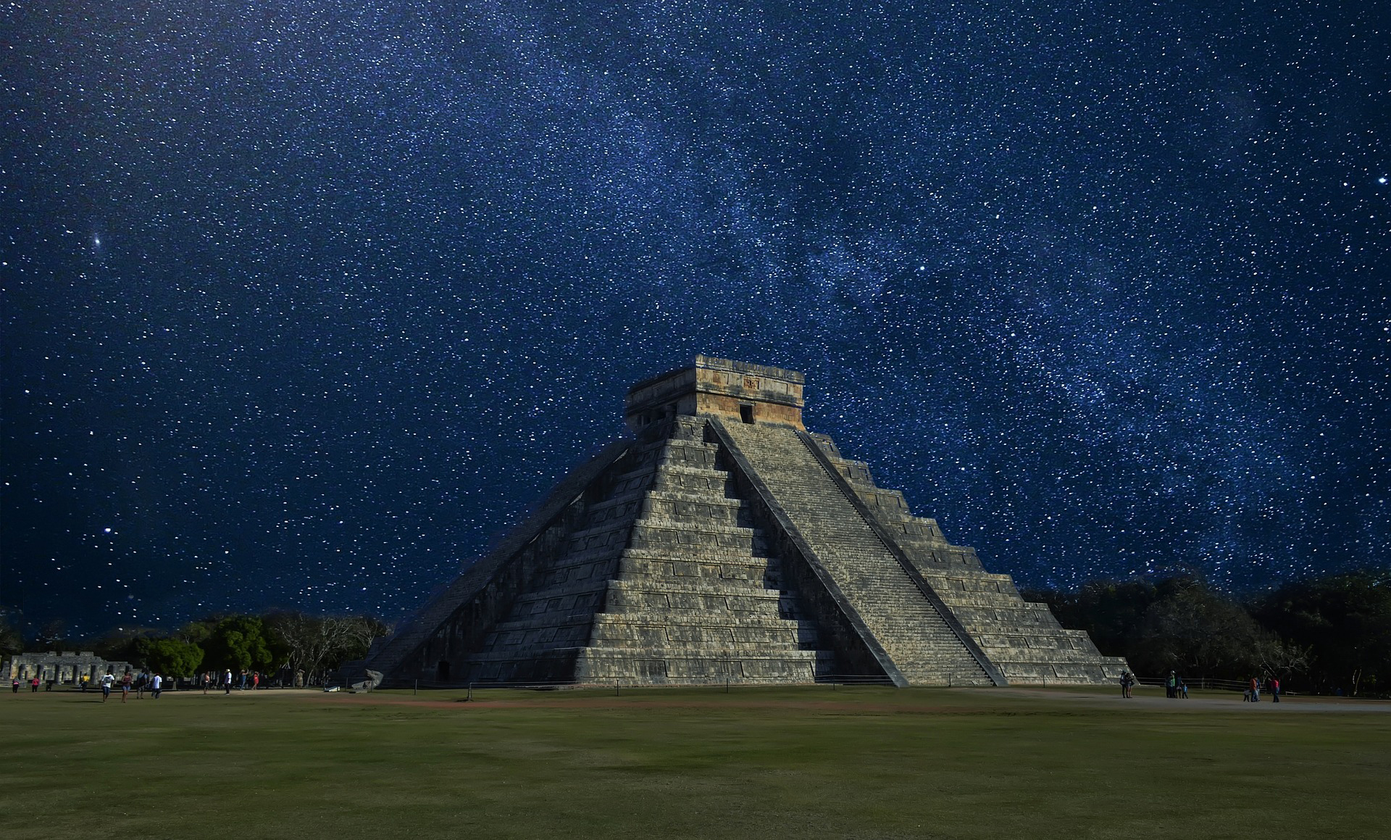
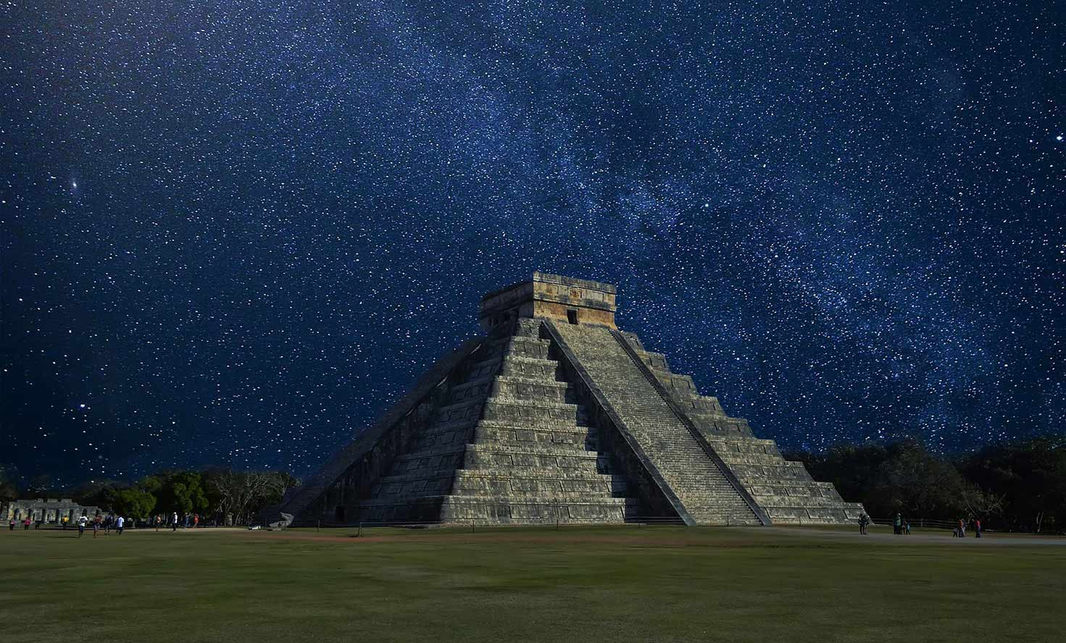
correccion campos

diff --git a/src/app/components/busqueda-pal-clav/busqueda-pal-clav.component.html b/src/app/components/busqueda-pal-clav/busqueda-pal-clav.component.html
@@ -46,8 +46,8 @@
         <div class="flex-containercont">
 
             <div class="articulo" *ngFor="let articulo of articulos">
-                <div *ngIf="articulo.origen === 'PDF'"><a class="titulo" href="https://www.redalyc.org/articulo.oa?id={{articulo.claveArt}}" target="_blank">{{  articulo.tituloArt | tituloArticulo }}</a></div>
-                <div *ngIf="articulo.origen === 'XML'"><a class="titulo" href="https://www.redalyc.org/jatsRepo/{{articulo.claveRevista}}/{{articulo.claveArt}}/index.html" target="_blank">{{  articulo.tituloArt | tituloArticulo }}</a></div>
+                <div *ngIf="articulo.origen === 'PDF'"><a class="titulo" href="https://www.redalyc.org/articulo.oa?id={{articulo.cveArticulo}}" target="_blank">{{  articulo.titulo }}</a></div>
+                <div *ngIf="articulo.origen === 'XML'"><a class="titulo" href="https://www.redalyc.org/jatsRepo/{{articulo.cveRevista}}/{{articulo.cveArticulo}}/index.html" target="_blank">{{  articulo.titulo }}</a></div>
                 <p>{{ articulo.autores | autoresArticulo}}</p>
                 <p>{{ articulo.nombreRevista }}, {{ articulo.anio }}, {{ articulo.volumen }} ({{ articulo.numero }}) </p>
                 <p>Fuente: {{ articulo.fuente}} </p>
@@ -63,13 +63,13 @@
                     <div *ngIf="articulo.origen === 'PDF'" class="flex">
                         <p class="texto-completo">Texto Completo: </p>
 
-                        <button class="button1"><a class="tipoFormato" href="https://redalyc.org/articulo.oa?id={{articulo.claveArt}}"  target="_blank">PDF</a></button>
+                        <button class="button1"><a class="tipoFormato" href="https://redalyc.org/articulo.oa?id={{articulo.cveArticulo}}"  target="_blank">PDF</a></button>
 
-                        <a class="facebook redes-pdf" href="http://www.facebook.com/sharer.php?u=https://www.redalyc.org/articulo.oa?id={{articulo.claveArt}}" target="_blank" OnClick="window.open(this.href,'targetWindow','toolbar=no,location=0,status=no,menubar=no,scrollbars=yes,resizable=yes,width=600,height=250'); return false;">
+                        <a class="facebook redes-pdf" href="http://www.facebook.com/sharer.php?u=https://www.redalyc.org/articulo.oa?id={{articulo.cveArticulo}}" target="_blank" OnClick="window.open(this.href,'targetWindow','toolbar=no,location=0,status=no,menubar=no,scrollbars=yes,resizable=yes,width=600,height=250'); return false;">
                             <img target="_blank" src="assets/img/tar-face.png" alt="">
                         </a>
 
-                        <a href="https://twitter.com/intent/tweet?original_referer=https://www.redalyc.org/articulo.oa?id={{articulo.claveArt}} &amp;text={{  articulo.tituloArt | tituloArticulo }} https://www.redalyc.org/articulo.oa?id={{articulo.claveArt}} vía @Redalyc" class="twitter"
+                        <a href="https://twitter.com/intent/tweet?original_referer=https://www.redalyc.org/articulo.oa?id={{articulo.cveArticulo}} &amp;text={{  articulo.titulo }} https://www.redalyc.org/articulo.oa?id={{articulo.cveArticulo}} vía @Redalyc" class="twitter"
                             target="_blank" OnClick="window.open(this.href,'targetWindow','toolbar=no,location=0,status=no,menubar=no,scrollbars=yes,resizable=yes,width=600,height=250'); return false;">
                             <img src="assets/img/tar-twit.png" alt="">
                         </a>
@@ -78,16 +78,16 @@
 
                     <div *ngIf="articulo.origen === 'XML'" class="flex">
                         <p class="texto-completo">Texto Completo: </p>
-                        <button class="button1"><a class="tipoFormato" href="https://redalyc.org/jatsRepo/{{articulo.claveRevista}}/{{articulo.claveArt}}/html/index.html" target="_blank">HTML-R</a> </button>
-                        <button class="button1"><a class="tipoFormato" href="https://redalyc.org/jatsRepo/{{articulo.claveRevista}}/{{articulo.claveArt}}/{{articulo.claveArt}}.epub" target="_blank">ePUB-R</a></button>
-                        <button class="button1"><a class="tipoFormato" href="https://redalyc.org/jatsRepo/{{articulo.claveRevista}}/{{articulo.claveArt}}/movil/index.html" target="_blank">MÓVIL-R</a></button>
-                        <button class="button1"><a class="tipoFormato" href="https://redalyc.org/articulo.oa?id={{articulo.claveArt}}"  target="_blank">PDF</a></button>
+                        <button class="button1"><a class="tipoFormato" href="https://redalyc.org/jatsRepo/{{articulo.cveRevista}}/{{articulo.cveArticulo}}/html/index.html" target="_blank">HTML-R</a> </button>
+                        <button class="button1"><a class="tipoFormato" href="https://redalyc.org/jatsRepo/{{articulo.cveRevista}}/{{articulo.cveArticulo}}/{{articulo.cveArticulo}}.epub" target="_blank">ePUB-R</a></button>
+                        <button class="button1"><a class="tipoFormato" href="https://redalyc.org/jatsRepo/{{articulo.cveRevista}}/{{articulo.cveArticulo}}/movil/index.html" target="_blank">MÓVIL-R</a></button>
+                        <button class="button1"><a class="tipoFormato" href="https://redalyc.org/articulo.oa?id={{articulo.cveArticulo}}"  target="_blank">PDF</a></button>
 
-                        <a class="facebook redes-xml" href="http://www.facebook.com/sharer.php?u=https://www.redalyc.org/articulo.oa?id={{articulo.claveArt}}" target="_blank" OnClick="window.open(this.href,'targetWindow','toolbar=no,location=0,status=no,menubar=no,scrollbars=yes,resizable=yes,width=600,height=250'); return false;">
+                        <a class="facebook redes-xml" href="http://www.facebook.com/sharer.php?u=https://www.redalyc.org/articulo.oa?id={{articulo.cveArticulo}}" target="_blank" OnClick="window.open(this.href,'targetWindow','toolbar=no,location=0,status=no,menubar=no,scrollbars=yes,resizable=yes,width=600,height=250'); return false;">
                             <img target="_blank" class="img-footer" src="assets/img/tar-face.png" alt="">
                         </a>
 
-                        <a href="https://twitter.com/intent/tweet?original_referer=https://www.redalyc.org/articulo.oa?id={{articulo.claveArt}} &amp;text={{  articulo.tituloArt | tituloArticulo }} https://www.redalyc.org/articulo.oa?id={{articulo.claveArt}} vía @Redalyc" class="twitter"
+                        <a href="https://twitter.com/intent/tweet?original_referer=https://www.redalyc.org/articulo.oa?id={{articulo.cveArticulo}} &amp;text={{  articulo.titulo }} https://www.redalyc.org/articulo.oa?id={{articulo.cveArticulo}} vía @Redalyc" class="twitter"
                             target="_blank" OnClick="window.open(this.href,'targetWindow','toolbar=no,location=0,status=no,menubar=no,scrollbars=yes,resizable=yes,width=600,height=250'); return false;">
                             <img target="_blank" class="img-footer" src="assets/img/tar-twit.png" alt="">
                         </a>

diff --git a/src/app/components/tarjeta-articulos/tarjeta-articulos.component.html b/src/app/components/tarjeta-articulos/tarjeta-articulos.component.html
@@ -1,8 +1,8 @@
 <div class="flex-containercont">
 
     <div class="articulo" *ngFor="let articulo of articulos">
-        <div *ngIf="articulo.origen === 'PDF'" class="titulo"><a class="titulo" href="https://www.redalyc.org/articulo.oa?id={{articulo.claveArt}}" target="_blank">{{  articulo.tituloArt | tituloArticulo }}</a></div>
-        <div *ngIf="articulo.origen === 'XML'" class="titulo"><a  class="titulo" href="https://www.redalyc.org/jatsRepo/{{articulo.claveRevista}}/{{articulo.claveArt}}/index.html" target="_blank">{{  articulo.tituloArt | tituloArticulo }}</a></div>
+        <div *ngIf="articulo.origen === 'PDF'" class="titulo"><a class="titulo" href="https://www.redalyc.org/articulo.oa?id={{articulo.cveArticulo}}" target="_blank">{{  articulo.titulo }}</a></div>
+        <div *ngIf="articulo.origen === 'XML'" class="titulo"><a  class="titulo" href="https://www.redalyc.org/jatsRepo/{{articulo.cveRevista}}/{{articulo.cveArticulo}}/index.html" target="_blank">{{  articulo.titulo }}</a></div>
         <p>{{ articulo.autores | autoresArticulo}}</p>
         <p>{{ articulo.nombreRevista }}, {{ articulo.anio }}, {{ articulo.volumen }} ({{ articulo.numero }}) </p>
         <p>Fuente: {{ articulo.fuente}} </p>
@@ -14,24 +14,24 @@
         <div *ngIf="articulo.dominio === 'https://www.redalyc.org'">
             <div *ngIf="articulo.origen === 'PDF'" class="flex">
                 <p class="texto-completo">Texto Completo: </p>
-                <button class="button1"><a class="tipoFormato"  href="https://redalyc.org/articulo.oa?id={{articulo.claveArt}}"  target="_blank">PDF</a></button>
+                <button class="button1"><a class="tipoFormato"  href="https://redalyc.org/articulo.oa?id={{articulo.cveArticulo}}"  target="_blank">PDF</a></button>
 
-                <a style="margin-left: 75%;" href="http://www.facebook.com/sharer.php?u=https://www.redalyc.org/articulo.oa?id={{articulo.claveArt}} | safeUrl" class="facebook" target="_blank" OnClick="window.open(this.href,'targetWindow','toolbar=no,location=0,status=no,menubar=no,scrollbars=yes,resizable=yes,width=600,height=250'); return false;">
+                <a style="margin-left: 75%;" href="http://www.facebook.com/sharer.php?u=https://www.redalyc.org/articulo.oa?id={{articulo.cveArticulo}} | safeUrl" class="facebook" target="_blank" OnClick="window.open(this.href,'targetWindow','toolbar=no,location=0,status=no,menubar=no,scrollbars=yes,resizable=yes,width=600,height=250'); return false;">
                     <img target="_blank" src="assets/img/tar-face.png" alt=""></a>
-                <a href="https://twitter.com/intent/tweet?original_referer=https://www.redalyc.org/articulo.oa?id={{articulo.claveArt}} &amp;text={{  articulo.tituloArt | tituloArticulo }} https://www.redalyc.org/articulo.oa?id={{articulo.claveArt}} vía @Redalyc" class="twitter"
+                <a href="https://twitter.com/intent/tweet?original_referer=https://www.redalyc.org/articulo.oa?id={{articulo.cveArticulo}} &amp;text={{  articulo.titulo }} https://www.redalyc.org/articulo.oa?id={{articulo.cveArticulo}} vía @Redalyc" class="twitter"
                     target="_blank" OnClick="window.open(this.href,'targetWindow','toolbar=no,location=0,status=no,menubar=no,scrollbars=yes,resizable=yes,width=600,height=250'); return false;"><img src="assets/img/tar-twit.png" alt=""></a>
 
             </div>
 
             <div *ngIf="articulo.origen === 'XML'" class="flex">
                 <p class="texto-completo">Texto Completo: </p>
-                <button class="button1"><a class="tipoFormato" href="https://redalyc.org/jatsRepo/{{articulo.claveRevista}}/{{articulo.claveArt}}/html/index.html" target="_blank">HTML-R</a> </button>
-                <button class="button1"><a class="tipoFormato" href="https://redalyc.org/jatsRepo/{{articulo.claveRevista}}/{{articulo.claveArt}}/{{articulo.claveArt}}.epub" target="_blank">ePUB-R</a></button>
-                <button class="button1"><a class="tipoFormato" href="https://redalyc.org/jatsRepo/{{articulo.claveRevista}}/{{articulo.claveArt}}/movil/index.html" target="_blank">MÓVIL-R</a></button>
-                <button class="button1"><a class="tipoFormato" href="https://redalyc.org/articulo.oa?id={{articulo.claveArt}}"  target="_blank">PDF</a></button>
-                <a style="margin-left: 41%;" href="http://www.facebook.com/sharer.php?u=https://www.redalyc.org/articulo.oa?id={{articulo.claveArt}}" class="facebook" target="_blank" OnClick="window.open(this.href,'targetWindow','toolbar=no,location=0,status=no,menubar=no,scrollbars=yes,resizable=yes,width=600,height=250'); return false;">
+                <button class="button1"><a class="tipoFormato" href="https://redalyc.org/jatsRepo/{{articulo.cveRevista}}/{{articulo.cveArticulo}}/html/index.html" target="_blank">HTML-R</a> </button>
+                <button class="button1"><a class="tipoFormato" href="https://redalyc.org/jatsRepo/{{articulo.cveRevista}}/{{articulo.cveArticulo}}/{{articulo.cveArticulo}}.epub" target="_blank">ePUB-R</a></button>
+                <button class="button1"><a class="tipoFormato" href="https://redalyc.org/jatsRepo/{{articulo.cveRevista}}/{{articulo.cveArticulo}}/movil/index.html" target="_blank">MÓVIL-R</a></button>
+                <button class="button1"><a class="tipoFormato" href="https://redalyc.org/articulo.oa?id={{articulo.cveArticulo}}"  target="_blank">PDF</a></button>
+                <a style="margin-left: 41%;" href="http://www.facebook.com/sharer.php?u=https://www.redalyc.org/articulo.oa?id={{articulo.cveArticulo}}" class="facebook" target="_blank" OnClick="window.open(this.href,'targetWindow','toolbar=no,location=0,status=no,menubar=no,scrollbars=yes,resizable=yes,width=600,height=250'); return false;">
                     <img target="_blank" src="assets/img/tar-face.png" alt=""></a>
-                <a href="https://twitter.com/intent/tweet?original_referer=https://www.redalyc.org/articulo.oa?id={{articulo.claveArt}} &amp;text={{  articulo.tituloArt | tituloArticulo }} https://www.redalyc.org/articulo.oa?id={{articulo.claveArt}} vía @Redalyc" class="twitter"
+                <a href="https://twitter.com/intent/tweet?original_referer=https://www.redalyc.org/articulo.oa?id={{articulo.cveArticulo}} &amp;text={{  articulo.titulo }} https://www.redalyc.org/articulo.oa?id={{articulo.cveArticulo}} vía @Redalyc" class="twitter"
                     target="_blank" OnClick="window.open(this.href,'targetWindow','toolbar=no,location=0,status=no,menubar=no,scrollbars=yes,resizable=yes,width=600,height=250'); return false;"><img src="assets/img/tar-twit.png" alt=""></a>
             </div>
         </div>

diff --git a/src/app/components/busqueda-pais/tarjeta-articulo/tarjeta-articulo.component.html b/src/app/components/busqueda-pais/tarjeta-articulo/tarjeta-articulo.component.html
@@ -1,8 +1,8 @@
 <div class="flex-containercont">
 
     <div class="articulo" *ngFor="let articulo of articulos">
-        <div *ngIf="articulo.origen === 'PDF'" class="titulo"><a href="https://www.redalyc.org/articulo.oa?id={{articulo.claveArt}}" target="_blank">{{  articulo.tituloArt | tituloArticulo }}</a></div>
-        <div *ngIf="articulo.origen === 'XML'" class="titulo"><a href="https://www.redalyc.org/jatsRepo/{{articulo.claveRevista}}/{{articulo.claveArt}}/index.html" target="_blank">{{  articulo.tituloArt | tituloArticulo }}</a></div>
+        <div *ngIf="articulo.origen === 'PDF'" class="titulo"><a href="https://www.redalyc.org/articulo.oa?id={{articulo.cveArticulo}}" target="_blank">{{  articulo.titulo }}</a></div>
+        <div *ngIf="articulo.origen === 'XML'" class="titulo"><a href="https://www.redalyc.org/jatsRepo/{{articulo.cveRevista}}/{{articulo.cveArticulo}}/index.html" target="_blank">{{  articulo.titulo }}</a></div>
         <p>{{ articulo.autores | autoresArticulo}}</p>
         <p>{{ articulo.nombreRevista }}, {{ articulo.anio }}, {{ articulo.volumen }} ({{ articulo.numero }}) </p>
         <p [routerLink]="['/busqueda-pal-clav',articulo.fuente]">Fuente: {{ articulo.fuente}} </p>
@@ -12,23 +12,23 @@
         <div *ngIf="articulo.dominio === 'https://www.redalyc.org'">
             <div *ngIf="articulo.origen === 'PDF'" class="flex">
                 <p class="texto-completo">Texto Completo:</p>
-                <button class="button1"><a class="tipoFormato" href="https://redalyc.org/articulo.oa?id={{articulo.claveArt}}"  target="_blank">PDF</a></button>
+                <button class="button1"><a class="tipoFormato" href="https://redalyc.org/articulo.oa?id={{articulo.cveArticulo}}"  target="_blank">PDF</a></button>
 
-                <a class="facebook redes-pdf" href="http://www.facebook.com/sharer.php?u=https://www.redalyc.org/articulo.oa?id={{articulo.claveArt}}" target="_blank" OnClick="window.open(this.href,'targetWindow','toolbar=no,location=0,status=no,menubar=no,scrollbars=yes,resizable=yes,width=600,height=250'); return false;">
+                <a class="facebook redes-pdf" href="http://www.facebook.com/sharer.php?u=https://www.redalyc.org/articulo.oa?id={{articulo.cveArticulo}}" target="_blank" OnClick="window.open(this.href,'targetWindow','toolbar=no,location=0,status=no,menubar=no,scrollbars=yes,resizable=yes,width=600,height=250'); return false;">
                     <img target="_blank" src="assets/img/tar-face.png" alt=""></a>
-                <a href="https://twitter.com/intent/tweet?original_referer=https://www.redalyc.org/articulo.oa?id={{articulo.claveArt}} &amp;text={{  articulo.tituloArt | tituloArticulo }} https://www.redalyc.org/articulo.oa?id={{articulo.claveArt}} vía @Redalyc" class="twitter"
+                <a href="https://twitter.com/intent/tweet?original_referer=https://www.redalyc.org/articulo.oa?id={{articulo.cveArticulo}} &amp;text={{  articulo.titulo }} https://www.redalyc.org/articulo.oa?id={{articulo.cveArticulo}} vía @Redalyc" class="twitter"
                     target="_blank" OnClick="window.open(this.href,'targetWindow','toolbar=no,location=0,status=no,menubar=no,scrollbars=yes,resizable=yes,width=600,height=250'); return false;"><img src="assets/img/tar-twit.png" alt=""></a>
             </div>
 
             <div *ngIf="articulo.origen === 'XML'" class="flex">
                 <p class="texto-completo">Texto Completo:</p>
-                <button class="button1"><a class="tipoFormato" href="https://redalyc.org/jatsRepo/{{articulo.claveRevista}}/{{articulo.claveArt}}/html/index.html" target="_blank">HTML-R</a> </button>
-                <button class="button1"><a class="tipoFormato" href="https://redalyc.org/jatsRepo/{{articulo.claveRevista}}/{{articulo.claveArt}}/{{articulo.claveArt}}.epub" target="_blank">ePUB-R</a></button>
-                <button class="button1"><a class="tipoFormato" href="https://redalyc.org/jatsRepo/{{articulo.claveRevista}}/{{articulo.claveArt}}/movil/index.html" target="_blank">MÓVIL-R</a></button>
-                <button class="button1"><a class="tipoFormato" href="https://redalyc.org/articulo.oa?id={{articulo.claveArt}}"  target="_blank">PDF</a></button>
-                <a class="facebook redes-xml" href="http://www.facebook.com/sharer.php?u=https://www.redalyc.org/articulo.oa?id={{articulo.claveArt}}" target="_blank" OnClick="window.open(this.href,'targetWindow','toolbar=no,location=0,status=no,menubar=no,scrollbars=yes,resizable=yes,width=600,height=250'); return false;">
+                <button class="button1"><a class="tipoFormato" href="https://redalyc.org/jatsRepo/{{articulo.cveRevista}}/{{articulo.cveArticulo}}/html/index.html" target="_blank">HTML-R</a> </button>
+                <button class="button1"><a class="tipoFormato" href="https://redalyc.org/jatsRepo/{{articulo.cveRevista}}/{{articulo.cveArticulo}}/{{articulo.cveArticulo}}.epub" target="_blank">ePUB-R</a></button>
+                <button class="button1"><a class="tipoFormato" href="https://redalyc.org/jatsRepo/{{articulo.cveRevista}}/{{articulo.cveArticulo}}/movil/index.html" target="_blank">MÓVIL-R</a></button>
+                <button class="button1"><a class="tipoFormato" href="https://redalyc.org/articulo.oa?id={{articulo.cveArticulo}}"  target="_blank">PDF</a></button>
+                <a class="facebook redes-xml" href="http://www.facebook.com/sharer.php?u=https://www.redalyc.org/articulo.oa?id={{articulo.cveArticulo}}" target="_blank" OnClick="window.open(this.href,'targetWindow','toolbar=no,location=0,status=no,menubar=no,scrollbars=yes,resizable=yes,width=600,height=250'); return false;">
                     <img target="_blank" src="assets/img/tar-face.png" alt=""></a>
-                <a href="https://twitter.com/intent/tweet?original_referer=https://www.redalyc.org/articulo.oa?id={{articulo.claveArt}} &amp;text={{  articulo.tituloArt | tituloArticulo }} https://www.redalyc.org/articulo.oa?id={{articulo.claveArt}} vía @Redalyc" class="twitter"
+                <a href="https://twitter.com/intent/tweet?original_referer=https://www.redalyc.org/articulo.oa?id={{articulo.cveArticulo}} &amp;text={{  articulo.titulo }} https://www.redalyc.org/articulo.oa?id={{articulo.cveArticulo}} vía @Redalyc" class="twitter"
                     target="_blank" OnClick="window.open(this.href,'targetWindow','toolbar=no,location=0,status=no,menubar=no,scrollbars=yes,resizable=yes,width=600,height=250'); return false;"><img src="assets/img/tar-twit.png" alt=""></a>
             </div>
         </div>

diff --git a/src/app/components/busqueda-palclav-vtab/busqueda-palclav-vtab.component.html b/src/app/components/busqueda-palclav-vtab/busqueda-palclav-vtab.component.html
@@ -70,31 +70,31 @@
                 </thead>
                 <tbody>
                     <tr *ngFor="let articulo of articulos">
-                        <td colspan="3" *ngIf="articulo.origen === 'PDF'"><a class="titulo-art" href="https://www.redalyc.org/articulo.oa?id={{articulo.claveArt}}" target="_blank">{{ articulo.tituloArt }}</a></td>
-                        <td colspan="3" *ngIf="articulo.origen === 'XML'"><a class="titulo-art" href="https://redalyc.org/jatsRepo/{{articulo.claveRevista}}/{{articulo.claveArt}}/html/index.html" target="_blank">{{ articulo.tituloArt }}</a></td>
+                        <td colspan="3" *ngIf="articulo.origen === 'PDF'"><a class="titulo-art" href="https://www.redalyc.org/articulo.oa?id={{articulo.cveArticulo}}" target="_blank">{{ articulo.tituloArt }}</a></td>
+                        <td colspan="3" *ngIf="articulo.origen === 'XML'"><a class="titulo-art" href="https://redalyc.org/jatsRepo/{{articulo.cveRevista}}/{{articulo.cveArticulo}}/html/index.html" target="_blank">{{ articulo.tituloArt }}</a></td>
                         <td colspan="2">{{ articulo.autores }}</td>
                         <td colspan="2">{{ articulo.nombreRevista }}</td>
                         <td>{{ articulo.anio }}, {{ articulo.volumen }} ({{ articulo.numero }})</td>
                         <td *ngIf="articulo.dominio === 'https://www.redalyc.org' && articulo.origen === 'XML'">
                             <div class="grid">
                                 <div>
-                                    <a class="resumen" href="https://redalyc.org/articulo.oa?id={{articulo.claveArt}}" target="_blank"><b>PDF</b></a>
+                                    <a class="resumen" href="https://redalyc.org/articulo.oa?id={{articulo.cveArticulo}}" target="_blank"><b>PDF</b></a>
                                 </div>
                                 <div *ngIf="articulo.origen === 'XML'">
-                                    <a class="resumen" href="https://redalyc.org/jatsRepo/{{articulo.claveRevista}}/{{articulo.claveArt}}/html/index.html" target="_blank"><b>HTML-R</b></a>
+                                    <a class="resumen" href="https://redalyc.org/jatsRepo/{{articulo.cveRevista}}/{{articulo.cveArticulo}}/html/index.html" target="_blank"><b>HTML-R</b></a>
                                 </div>
                                 <div *ngIf="articulo.origen === 'XML'">
-                                    <a class="resumen" href="https://redalyc.org/jatsRepo/{{articulo.claveRevista}}/{{articulo.claveArt}}/{{articulo.claveArt}}.epub" target="_blank"><b>ePUB-R</b></a>
+                                    <a class="resumen" href="https://redalyc.org/jatsRepo/{{articulo.cveRevista}}/{{articulo.cveArticulo}}/{{articulo.cveArticulo}}.epub" target="_blank"><b>ePUB-R</b></a>
                                 </div>
                                 <div *ngIf="articulo.origen === 'XML'">
-                                    <a class="resumen" href="https://redalyc.org/jatsRepo/{{articulo.claveRevista}}/{{articulo.claveArt}}/movil/index.html" target="_blank"><b>MÓVIL-R</b></a>
+                                    <a class="resumen" href="https://redalyc.org/jatsRepo/{{articulo.cveRevista}}/{{articulo.cveArticulo}}/movil/index.html" target="_blank"><b>MÓVIL-R</b></a>
                                 </div>
                             </div>
                         </td>
                         <td *ngIf="articulo.dominio === 'https://www.redalyc.org' && !(articulo.origen === 'XML')">
                             <div>
                                 <div>
-                                    <a class="resumen" href="https://redalyc.org/articulo.oa?id={{articulo.claveArt}}" target="_blank"><b>PDF</b></a>
+                                    <a class="resumen" href="https://redalyc.org/articulo.oa?id={{articulo.cveArticulo}}" target="_blank"><b>PDF</b></a>
                                 </div>
                             </div>
                         </td>

diff --git a/src/app/components/ultimos-articulos/ultimos-articulos.component.html b/src/app/components/ultimos-articulos/ultimos-articulos.component.html
@@ -16,10 +16,10 @@
     </div>
     <div id="contenedor-fichas" class="contenedor-fichas">
         <div *ngFor="let articulo of articulos;let indexOfelement=index;" class="card">
-            <a href="https://redalyc.org/articulo.oa?id={{articulo.claveArt}}" target="_blank" style="text-decoration: none; color: black;">
+            <a href="https://redalyc.org/articulo.oa?id={{articulo.cveArticulo}}" target="_blank" style="text-decoration: none; color: black;">
                 <div class="info-card" style="padding: 10px; display: flex; flex-direction: column;">
                     <div class="titulo-card" style="height: 100px; font-weight: bold; font-size: 12px;">
-                        <p > {{articulo.tituloArt | tituloArticulo}}</p>
+                        <p > {{articulo.titulo | tituloArticulo}}</p>
                     </div>
                     <div class="cuerpo-card" style="font-size: 12px;">
                         <div>{{articulo.autores | autoresArticulo}}</div>
@@ -28,13 +28,13 @@
                         <div>{{articulo.nombreRevista}}, {{articulo.anio}} {{articulo.volumen}}<span *ngIf="articulo.numero != ' '">({{articulo.numero}})</span> </div>
                     </div>
                     <div style="height: auto; font-size: 12px;">
-                       <a href="https://redalyc.org/articulo.oa?id={{articulo.claveArt}}" style="text-decoration: none;"> <div style="color: #ff660c;">Texto completo</div></a>
+                       <a href="https://redalyc.org/articulo.oa?id={{articulo.cveArticulo}}" style="text-decoration: none;"> <div style="color: #ff660c;">Texto completo</div></a>
                     </div>
                 </div>
             </a>
             <div class="footer-card" style="width: 100%; height: 35px; text-align: right; border-radius: 0px 0px 10px 10px; ; background-color: #ff660c; position: absolute; bottom: 0;">
-                <a  href="http://www.facebook.com/sharer.php?u=https://redalyc.org/articulo.oa?id={{articulo.claveArt}}" class="facebook" target="_blank" OnClick="window.open(this.href,'targetWindow','toolbar=no,location=0,status=no,menubar=no,scrollbars=yes,resizable=yes,width=600,height=250'); return false;"> <img  target="_blank" class="img-footer" src="assets/img/tar-face.png" alt=""></a>
-                <a  href="https://twitter.com/intent/tweet?original_referer=https://redalyc.org/articulo.oa?id={{articulo.claveArt}} &amp;text={{articulo.tituloArt | tituloArticulo}} https://redalyc.org/articulo.oa?id={{articulo.claveArt}} vía @Redalyc" class="twitter" target="_blank" OnClick="window.open(this.href,'targetWindow','toolbar=no,location=0,status=no,menubar=no,scrollbars=yes,resizable=yes,width=600,height=250'); return false;"><img target="_blank" class="img-footer" src="assets/img/tar-twit.png" alt=""></a>
+                <a  href="http://www.facebook.com/sharer.php?u=https://redalyc.org/articulo.oa?id={{articulo.cveArticulo}}" class="facebook" target="_blank" OnClick="window.open(this.href,'targetWindow','toolbar=no,location=0,status=no,menubar=no,scrollbars=yes,resizable=yes,width=600,height=250'); return false;"> <img  target="_blank" class="img-footer" src="assets/img/tar-face.png" alt=""></a>
+                <a  href="https://twitter.com/intent/tweet?original_referer=https://redalyc.org/articulo.oa?id={{articulo.cveArticulo}} &amp;text={{articulo.titulo | tituloArticulo}} https://redalyc.org/articulo.oa?id={{articulo.cveArticulo}} vía @Redalyc" class="twitter" target="_blank" OnClick="window.open(this.href,'targetWindow','toolbar=no,location=0,status=no,menubar=no,scrollbars=yes,resizable=yes,width=600,height=250'); return false;"><img target="_blank" class="img-footer" src="assets/img/tar-twit.png" alt=""></a>
             </div>
         </div>
     </div>

diff --git a/src/app/components/busqueda-pais/tabla-articulo/tabla-articulo.component.html b/src/app/components/busqueda-pais/tabla-articulo/tabla-articulo.component.html
@@ -15,31 +15,31 @@
         </thead>
         <tbody>
             <tr *ngFor="let articulo of articulos">
-                <td colspan="3" *ngIf="articulo.origen === 'PDF'"><a class="titulo-art" href="https://www.redalyc.org/articulo.oa?id={{articulo.claveArt}}" target="_blank">{{ articulo.tituloArt }}</a></td>
-                <td colspan="3" *ngIf="articulo.origen === 'XML'"><a class="titulo-art" href="https://redalyc.org/jatsRepo/{{articulo.claveRevista}}/{{articulo.claveArt}}/html/index.html" target="_blank">{{ articulo.tituloArt }}</a></td>
+                <td colspan="3" *ngIf="articulo.origen === 'PDF'"><a class="titulo-art" href="https://www.redalyc.org/articulo.oa?id={{articulo.cveArticulo}}" target="_blank">{{ articulo.titulo }}</a></td>
+                <td colspan="3" *ngIf="articulo.origen === 'XML'"><a class="titulo-art" href="https://redalyc.org/jatsRepo/{{articulo.cveRevista}}/{{articulo.cveArticulo}}/html/index.html" target="_blank">{{ articulo.titulo }}</a></td>
                 <td colspan="2">{{ articulo.autores }}</td>
                 <td colspan="2">{{ articulo.nombreRevista }}</td>
                 <td>{{ articulo.anio }}, {{ articulo.volumen }} ({{ articulo.numero }})</td>
                 <td *ngIf="articulo.dominio === 'https://www.redalyc.org' && articulo.origen === 'XML'">
                     <div class="grid">
                         <div>
-                            <a class="resumen" href="https://redalyc.org/articulo.oa?id={{articulo.claveArt}}" target="_blank"><b>PDF</b></a>
+                            <a class="resumen" href="https://redalyc.org/articulo.oa?id={{articulo.cveArticulo}}" target="_blank"><b>PDF</b></a>
                         </div>
                         <div *ngIf="articulo.origen === 'XML'">
-                            <a class="resumen" href="https://redalyc.org/jatsRepo/{{articulo.claveRevista}}/{{articulo.claveArt}}/html/index.html" target="_blank"><b>HTML-R</b></a>
+                            <a class="resumen" href="https://redalyc.org/jatsRepo/{{articulo.cveRevista}}/{{articulo.cveArticulo}}/html/index.html" target="_blank"><b>HTML-R</b></a>
                         </div>
                         <div *ngIf="articulo.origen === 'XML'">
-                            <a class="resumen" href="https://redalyc.org/jatsRepo/{{articulo.claveRevista}}/{{articulo.claveArt}}/{{articulo.claveArt}}.epub" target="_blank"><b>ePUB-R</b></a>
+                            <a class="resumen" href="https://redalyc.org/jatsRepo/{{articulo.cveRevista}}/{{articulo.cveArticulo}}/{{articulo.cveArticulo}}.epub" target="_blank"><b>ePUB-R</b></a>
                         </div>
                         <div *ngIf="articulo.origen === 'XML'">
-                            <a class="resumen" href="https://redalyc.org/jatsRepo/{{articulo.claveRevista}}/{{articulo.claveArt}}/movil/index.html" target="_blank"><b>MÓVIL-R</b></a>
+                            <a class="resumen" href="https://redalyc.org/jatsRepo/{{articulo.cveRevista}}/{{articulo.cveArticulo}}/movil/index.html" target="_blank"><b>MÓVIL-R</b></a>
                         </div>
                     </div>
                 </td>
                 <td *ngIf="articulo.dominio === 'https://www.redalyc.org' && !(articulo.origen === 'XML')">
                     <div>
                         <div>
-                            <a class="resumen" href="https://redalyc.org/articulo.oa?id={{articulo.claveArt}}" target="_blank"><b>PDF</b></a>
+                            <a class="resumen" href="https://redalyc.org/articulo.oa?id={{articulo.cveArticulo}}" target="_blank"><b>PDF</b></a>
                         </div>
                     </div>
                 </td>

diff --git a/src/app/components/vista-tabla-articulos/vista-tabla-articulos.component.html b/src/app/components/vista-tabla-articulos/vista-tabla-articulos.component.html
@@ -17,31 +17,31 @@
         </thead>
         <tbody>
             <tr *ngFor="let articulo of articulos">
-                <td colspan="3" *ngIf="articulo.origen === 'PDF'"><a class="titulo-art" href="https://www.redalyc.org/articulo.oa?id={{articulo.claveArt}}" target="_blank">{{ articulo.tituloArt }}</a></td>
-                <td colspan="3" *ngIf="articulo.origen === 'XML'"><a class="titulo-art" href="https://redalyc.org/jatsRepo/{{articulo.claveRevista}}/{{articulo.claveArt}}/html/index.html" target="_blank">{{ articulo.tituloArt }}</a></td>
+                <td colspan="3" *ngIf="articulo.origen === 'PDF'"><a class="titulo-art" href="https://www.redalyc.org/articulo.oa?id={{articulo.cveArticulo}}" target="_blank">{{ articulo.titulo }}</a></td>
+                <td colspan="3" *ngIf="articulo.origen === 'XML'"><a class="titulo-art" href="https://redalyc.org/jatsRepo/{{articulo.cveRevista}}/{{articulo.cveArticulo}}/html/index.html" target="_blank">{{ articulo.titulo }}</a></td>
                 <td colspan="2">{{ articulo.autores }}</td>
                 <td colspan="2">{{ articulo.nombreRevista }}</td>
                 <td>{{ articulo.anio }}, {{ articulo.volumen }} ({{ articulo.numero }})</td>
                 <td *ngIf="articulo.dominio === 'https://www.redalyc.org' && articulo.origen === 'XML'">
                     <div class="grid">
                         <div>
-                            <a class="resumen" href="https://redalyc.org/articulo.oa?id={{articulo.claveArt}}" target="_blank"><b>PDF</b></a>
+                            <a class="resumen" href="https://redalyc.org/articulo.oa?id={{articulo.cveArticulo}}" target="_blank"><b>PDF</b></a>
                         </div>
                         <div *ngIf="articulo.origen === 'XML'">
-                            <a class="resumen" href="https://redalyc.org/jatsRepo/{{articulo.claveRevista}}/{{articulo.claveArt}}/html/index.html" target="_blank"><b>HTML-R</b></a>
+                            <a class="resumen" href="https://redalyc.org/jatsRepo/{{articulo.cveRevista}}/{{articulo.cveArticulo}}/html/index.html" target="_blank"><b>HTML-R</b></a>
                         </div>
                         <div *ngIf="articulo.origen === 'XML'">
-                            <a class="resumen" href="https://redalyc.org/jatsRepo/{{articulo.claveRevista}}/{{articulo.claveArt}}/{{articulo.claveArt}}.epub" target="_blank"><b>ePUB-R</b></a>
+                            <a class="resumen" href="https://redalyc.org/jatsRepo/{{articulo.cveRevista}}/{{articulo.cveArticulo}}/{{articulo.cveArticulo}}.epub" target="_blank"><b>ePUB-R</b></a>
                         </div>
                         <div *ngIf="articulo.origen === 'XML'">
-                            <a class="resumen" href="https://redalyc.org/jatsRepo/{{articulo.claveRevista}}/{{articulo.claveArt}}/movil/index.html" target="_blank"><b>MÓVIL-R</b></a>
+                            <a class="resumen" href="https://redalyc.org/jatsRepo/{{articulo.cveRevista}}/{{articulo.cveArticulo}}/movil/index.html" target="_blank"><b>MÓVIL-R</b></a>
                         </div>
                     </div>
                 </td>
                 <td *ngIf="articulo.dominio === 'https://www.redalyc.org' && !(articulo.origen === 'XML')">
                     <div>
                         <div>
-                            <a class="resumen" href="https://redalyc.org/articulo.oa?id={{articulo.claveArt}}" target="_blank"><b>PDF</b></a>
+                            <a class="resumen" href="https://redalyc.org/articulo.oa?id={{articulo.cveArticulo}}" target="_blank"><b>PDF</b></a>
                         </div>
                     </div>
                 </td>

diff --git a/src/assets/js/red.js b/src/assets/js/red.js
@@ -116,11 +116,11 @@
                     // console.log(index);
                     // console.log(element.id);
                     // console.log(element.contenido);
-                    // console.log(element.tituloArt);
+                    // console.log(element.titulo);
                     var item = document.createElement('a');
-                    item.setAttribute("href", 'https://redalyc.org/articulo.oa?id=' + element.claveArt);
+                    item.setAttribute("href", 'https://redalyc.org/articulo.oa?id=' + element.cveArticulo);
                     item.setAttribute("target", "_blank");
-                    item.innerHTML = '<div class="tituloArt"><span class="text-link">' + element.tituloArt + '</span><br><span class="text-revista">' + element.nombreRevista + ', ' + element.anio + ' ' + element.numero + '(' + element.volumen + ')</span></div>';
+                    item.innerHTML = '<div class="titulo"><span class="text-link">' + element.titulo + '</span><br><span class="text-revista">' + element.nombreRevista + ', ' + element.anio + ' ' + element.numero + '(' + element.volumen + ')</span></div>';
                     document.getElementById('datosArticulo').appendChild(item);
                 }
                 cargando.style.display = "none";

diff --git a/src/app/components/home/home.component.css b/src/app/components/home/home.component.css
@@ -8,8 +8,8 @@
   position: relative;
   width: 100%;
   min-height: 92vh;
-  /* background-image: url(../../../assets/img/piramide-CA.jpg); */
-  background-image: url(../../../assets/img/piramide.webp);
+  background-image: url(../../../assets/img/piramide-CA.jpg);
+  /* background-image: url(../../../assets/img/piramide.webp); */
   color: white;
   font-family: "Barlow-Regular";
   background-position: center;
@@ -264,8 +264,8 @@ div.outerBorder {
 }
 #footer {
   width: 100%;
-  /* background-image: url(../../../assets/img/maiz-footer.png); */
-  background-image: url(../../../assets/img/maiz-footer.webp);
+  background-image: url(../../../assets/img/maiz-footer.jpg);
+  /* background-image: url(../../../assets/img/maiz-footer.webp); */
   background-color: #f2f2f2;
   background-position: center;
   background-size: cover;

diff --git a/src/app/models/articulo.ts b/src/app/models/articulo.ts
@@ -1,5 +1,5 @@
 export class Articulo{
-    tituloArt: string; 
+    titulo: string; 
     issn: number;
     area: string; 
     institucion: string; 
